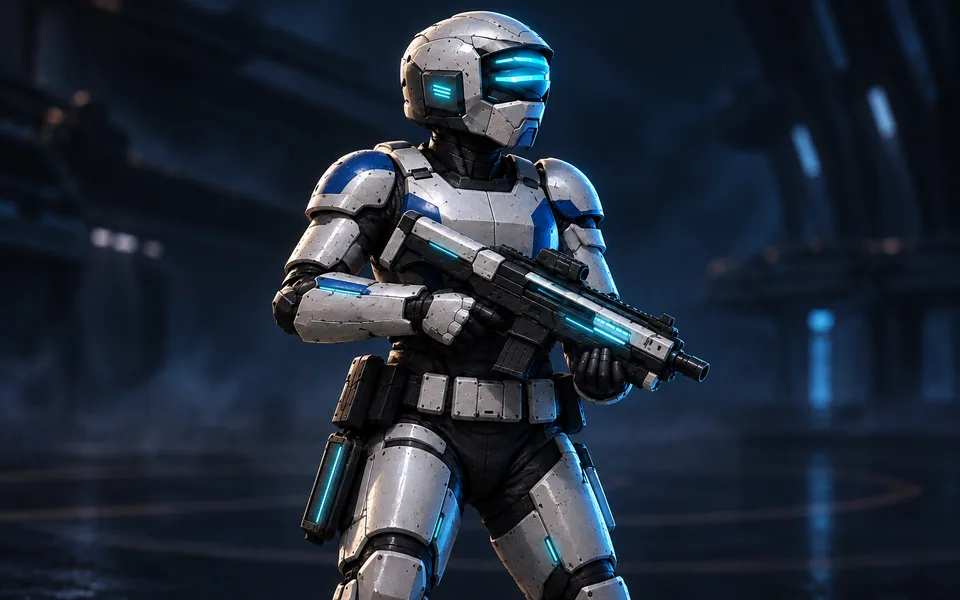
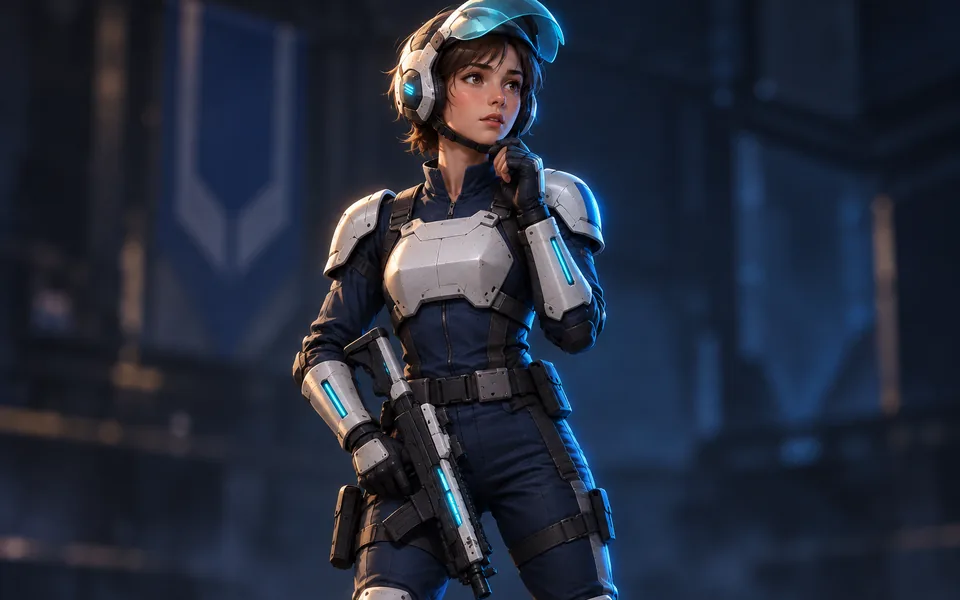
Painted art: Fleet batch 2; brief adds ship/vehicle variety rule

diff --git a/tools/art/make_brief.js b/tools/art/make_brief.js
@@ -89,6 +89,16 @@ The game folder is \`${path.resolve(ROOT)}\`. All paths below are relative to it
   - **Stance:** charging, kneeling, braced, mid-throw, operating equipment, at ease.
   - **Colour accents:** stripe colour, rank markings, camouflage, scorched or pristine.
 
+  - **Ships and vehicles:** vary the **camera angle** (side profile, three-quarter from above, looking up from below, head-on) and the **setting**:
+    - over a planet's curve;
+    - in battle with tracer fire and explosions;
+    - docking at a station;
+    - leading or breaking from a formation;
+    - in an asteroid field or a nebula;
+    - on the ground for vehicles.
+
+    Show the scale with escorts, a station or a planet behind. **Never reuse the "ship diving toward the camera through a blue nebula" shot.** It's been used enough.
+
   Use the card's name and description to choose. For example, a Cadet is young, in light training armour with the visor up; a Heavy Trooper is a hulking power-armoured gunner. Compare with the faction's images already in \`art/incoming/\` before painting, and change several of these traits so nothing reads as a duplicate.
 - **Faction looks** (the faction is listed on every image):
   - **Colonial Fleet** (human military): white and light-grey armour plates with navy accents and thin blue glowing seams, sealed helmets with glowing visors; ships are sleek grey hulls with blue engines. Palette: navy, steel, white, cyan light.

diff --git a/js/painted.js b/js/painted.js
@@ -1,3 +1,3 @@
 'use strict';
 // Generated by tools/art/ingest.py: plates that have painted art in art/cards and art/portraits.
-const PAINTED = {"cards":["cadet","calculus","heavy_trooper","herald_of_end","hive_reaper","marine","nyra","scout_drone","star_cruiser","vex"],"portraits":{}};
+const PAINTED = {"cards":["assault_drone","battlecruiser","cadet","calculus","heavy_trooper","herald_of_end","hive_reaper","ion_lancer","marine","nyra","patrol_frigate","rhino_tank","salvage_crew","scout_drone","siege_gunner","star_cruiser","vex"],"portraits":{}};
